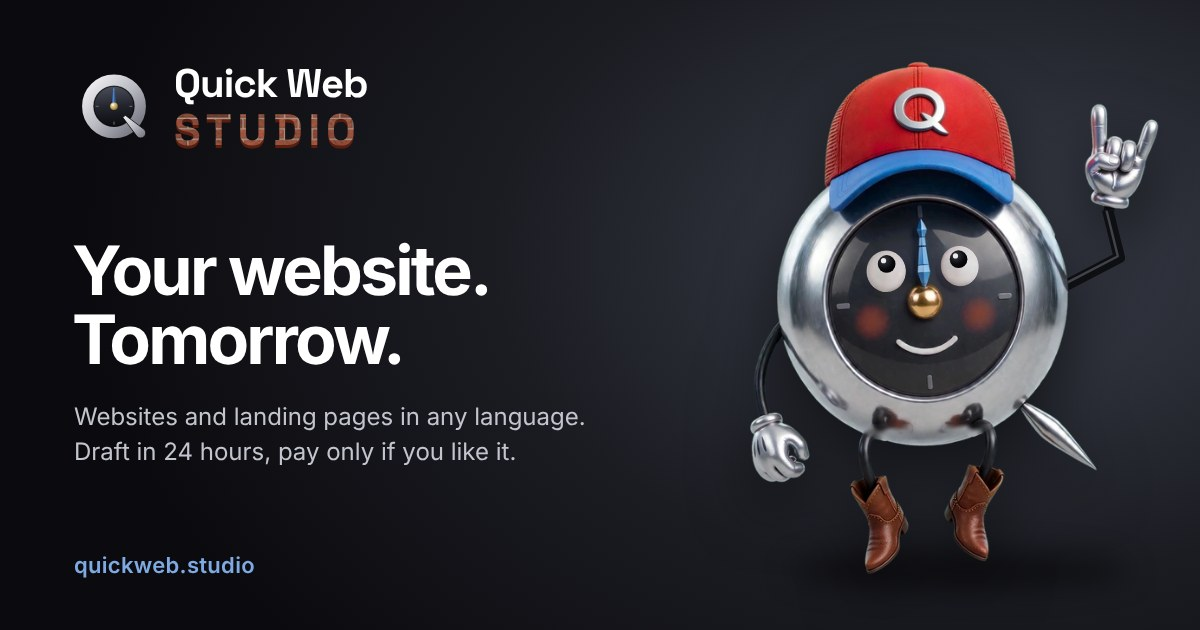
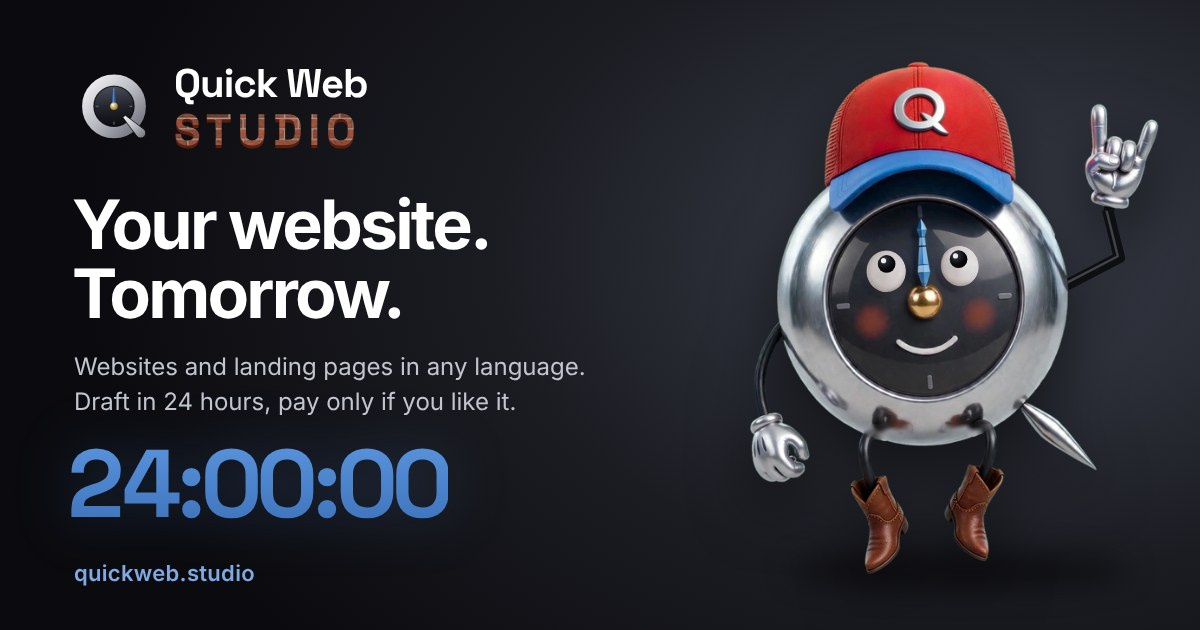
Превью ссылки: таймер 24:00:00 под текстом
Claude-Session: https://claude.ai/code/session_01UB3ZureNLA5tHsdZiT5wBc

Changed region(s): [[0.0617, 0.3016, 0.4933, 0.8444], [0.0617, 0.8746, 0.2158, 0.9349]]

diff --git a/ru/index.html b/ru/index.html
@@ -2,7 +2,7 @@
 <html lang="ru"><head>
 <meta charset="utf-8">
 <script>(function(){var L='ru';try{var q=new URLSearchParams(location.search).get('lang');var s=localStorage.getItem('qwLang');if(L==='es'){if(q==='es'){localStorage.setItem('qwLang','es');return;}if(s==='ru'||s==='en'){location.replace(s+'/');return;}if(!s){var n=(navigator.languages||[navigator.language||'']).map(function(x){return String(x).slice(0,2).toLowerCase()});for(var i=0;i<n.length;i++){if(n[i]==='es')break;if(n[i]==='ru'||n[i]==='en'){localStorage.setItem('qwLang',n[i]);location.replace(n[i]+'/');return;}}localStorage.setItem('qwLang','es');}}else{localStorage.setItem('qwLang',L);}}catch(e){}})();</script>
-<link rel="alternate" hreflang="es" href="https://quickweb.studio/"><link rel="alternate" hreflang="ru" href="https://quickweb.studio/ru/"><link rel="alternate" hreflang="en" href="https://quickweb.studio/en/"><link rel="alternate" hreflang="x-default" href="https://quickweb.studio/"><link rel="canonical" href="https://quickweb.studio/ru/"><meta name="description" content="Сайты и лендинги на любом языке. Черновик за 24 часа, платите только если понравился."><link rel="icon" href="/favicon.ico" sizes="any"><link rel="icon" type="image/svg+xml" href="/favicon.svg"><link rel="icon" type="image/png" sizes="32x32" href="/favicon-32.png"><link rel="apple-touch-icon" href="/apple-touch-icon.png"><meta name="theme-color" content="#0B0B0F"><meta property="og:type" content="website"><meta property="og:site_name" content="Quick Web Studio"><meta property="og:title" content="Quick Web Studio — сайты и лендинги за 24 часа · Буэнос-Айрес"><meta property="og:description" content="Сайты и лендинги на любом языке. Черновик за 24 часа, платите только если понравился."><meta property="og:url" content="https://quickweb.studio/ru/"><meta property="og:locale" content="ru_RU"><meta property="og:locale:alternate" content="es_AR"><meta property="og:locale:alternate" content="en_US"><meta property="og:image" content="https://quickweb.studio/og/ru.jpg?v=1"><meta property="og:image:secure_url" content="https://quickweb.studio/og/ru.jpg?v=1"><meta property="og:image:type" content="image/jpeg"><meta property="og:image:width" content="1200"><meta property="og:image:height" content="630"><meta property="og:image:alt" content="Quick Web Studio — сайты и лендинги за 24 часа · Буэнос-Айрес"><meta name="twitter:card" content="summary_large_image"><meta name="twitter:title" content="Quick Web Studio — сайты и лендинги за 24 часа · Буэнос-Айрес"><meta name="twitter:description" content="Сайты и лендинги на любом языке. Черновик за 24 часа, платите только если понравился."><meta name="twitter:image" content="https://quickweb.studio/og/ru.jpg?v=1">
+<link rel="alternate" hreflang="es" href="https://quickweb.studio/"><link rel="alternate" hreflang="ru" href="https://quickweb.studio/ru/"><link rel="alternate" hreflang="en" href="https://quickweb.studio/en/"><link rel="alternate" hreflang="x-default" href="https://quickweb.studio/"><link rel="canonical" href="https://quickweb.studio/ru/"><meta name="description" content="Сайты и лендинги на любом языке. Черновик за 24 часа, платите только если понравился."><link rel="icon" href="/favicon.ico" sizes="any"><link rel="icon" type="image/svg+xml" href="/favicon.svg"><link rel="icon" type="image/png" sizes="32x32" href="/favicon-32.png"><link rel="apple-touch-icon" href="/apple-touch-icon.png"><meta name="theme-color" content="#0B0B0F"><meta property="og:type" content="website"><meta property="og:site_name" content="Quick Web Studio"><meta property="og:title" content="Quick Web Studio — сайты и лендинги за 24 часа · Буэнос-Айрес"><meta property="og:description" content="Сайты и лендинги на любом языке. Черновик за 24 часа, платите только если понравился."><meta property="og:url" content="https://quickweb.studio/ru/"><meta property="og:locale" content="ru_RU"><meta property="og:locale:alternate" content="es_AR"><meta property="og:locale:alternate" content="en_US"><meta property="og:image" content="https://quickweb.studio/og/ru.jpg?v=2"><meta property="og:image:secure_url" content="https://quickweb.studio/og/ru.jpg?v=2"><meta property="og:image:type" content="image/jpeg"><meta property="og:image:width" content="1200"><meta property="og:image:height" content="630"><meta property="og:image:alt" content="Quick Web Studio — сайты и лендинги за 24 часа · Буэнос-Айрес"><meta name="twitter:card" content="summary_large_image"><meta name="twitter:title" content="Quick Web Studio — сайты и лендинги за 24 часа · Буэнос-Айрес"><meta name="twitter:description" content="Сайты и лендинги на любом языке. Черновик за 24 часа, платите только если понравился."><meta name="twitter:image" content="https://quickweb.studio/og/ru.jpg?v=2">
 <meta name="viewport" content="width=device-width, initial-scale=1">
 <title>Quick Web Studio — сайты и лендинги за 24 часа · Буэнос-Айрес</title>
 <link rel="preload" href="../assets/aa77ae4c49.js" as="script">

diff --git a/en/index.html b/en/index.html
@@ -2,7 +2,7 @@
 <html lang="en"><head>
 <meta charset="utf-8">
 <script>(function(){var L='en';try{var q=new URLSearchParams(location.search).get('lang');var s=localStorage.getItem('qwLang');if(L==='es'){if(q==='es'){localStorage.setItem('qwLang','es');return;}if(s==='ru'||s==='en'){location.replace(s+'/');return;}if(!s){var n=(navigator.languages||[navigator.language||'']).map(function(x){return String(x).slice(0,2).toLowerCase()});for(var i=0;i<n.length;i++){if(n[i]==='es')break;if(n[i]==='ru'||n[i]==='en'){localStorage.setItem('qwLang',n[i]);location.replace(n[i]+'/');return;}}localStorage.setItem('qwLang','es');}}else{localStorage.setItem('qwLang',L);}}catch(e){}})();</script>
-<link rel="alternate" hreflang="es" href="https://quickweb.studio/"><link rel="alternate" hreflang="ru" href="https://quickweb.studio/ru/"><link rel="alternate" hreflang="en" href="https://quickweb.studio/en/"><link rel="alternate" hreflang="x-default" href="https://quickweb.studio/"><link rel="canonical" href="https://quickweb.studio/en/"><meta name="description" content="Websites and landing pages in any language. Draft in 24 hours, pay only if you like it."><link rel="icon" href="/favicon.ico" sizes="any"><link rel="icon" type="image/svg+xml" href="/favicon.svg"><link rel="icon" type="image/png" sizes="32x32" href="/favicon-32.png"><link rel="apple-touch-icon" href="/apple-touch-icon.png"><meta name="theme-color" content="#0B0B0F"><meta property="og:type" content="website"><meta property="og:site_name" content="Quick Web Studio"><meta property="og:title" content="Quick Web Studio — websites and landing pages in 24 hours · Buenos Aires"><meta property="og:description" content="Websites and landing pages in any language. Draft in 24 hours, pay only if you like it."><meta property="og:url" content="https://quickweb.studio/en/"><meta property="og:locale" content="en_US"><meta property="og:locale:alternate" content="es_AR"><meta property="og:locale:alternate" content="ru_RU"><meta property="og:image" content="https://quickweb.studio/og/en.jpg?v=1"><meta property="og:image:secure_url" content="https://quickweb.studio/og/en.jpg?v=1"><meta property="og:image:type" content="image/jpeg"><meta property="og:image:width" content="1200"><meta property="og:image:height" content="630"><meta property="og:image:alt" content="Quick Web Studio — websites and landing pages in 24 hours · Buenos Aires"><meta name="twitter:card" content="summary_large_image"><meta name="twitter:title" content="Quick Web Studio — websites and landing pages in 24 hours · Buenos Aires"><meta name="twitter:description" content="Websites and landing pages in any language. Draft in 24 hours, pay only if you like it."><meta name="twitter:image" content="https://quickweb.studio/og/en.jpg?v=1">
+<link rel="alternate" hreflang="es" href="https://quickweb.studio/"><link rel="alternate" hreflang="ru" href="https://quickweb.studio/ru/"><link rel="alternate" hreflang="en" href="https://quickweb.studio/en/"><link rel="alternate" hreflang="x-default" href="https://quickweb.studio/"><link rel="canonical" href="https://quickweb.studio/en/"><meta name="description" content="Websites and landing pages in any language. Draft in 24 hours, pay only if you like it."><link rel="icon" href="/favicon.ico" sizes="any"><link rel="icon" type="image/svg+xml" href="/favicon.svg"><link rel="icon" type="image/png" sizes="32x32" href="/favicon-32.png"><link rel="apple-touch-icon" href="/apple-touch-icon.png"><meta name="theme-color" content="#0B0B0F"><meta property="og:type" content="website"><meta property="og:site_name" content="Quick Web Studio"><meta property="og:title" content="Quick Web Studio — websites and landing pages in 24 hours · Buenos Aires"><meta property="og:description" content="Websites and landing pages in any language. Draft in 24 hours, pay only if you like it."><meta property="og:url" content="https://quickweb.studio/en/"><meta property="og:locale" content="en_US"><meta property="og:locale:alternate" content="es_AR"><meta property="og:locale:alternate" content="ru_RU"><meta property="og:image" content="https://quickweb.studio/og/en.jpg?v=2"><meta property="og:image:secure_url" content="https://quickweb.studio/og/en.jpg?v=2"><meta property="og:image:type" content="image/jpeg"><meta property="og:image:width" content="1200"><meta property="og:image:height" content="630"><meta property="og:image:alt" content="Quick Web Studio — websites and landing pages in 24 hours · Buenos Aires"><meta name="twitter:card" content="summary_large_image"><meta name="twitter:title" content="Quick Web Studio — websites and landing pages in 24 hours · Buenos Aires"><meta name="twitter:description" content="Websites and landing pages in any language. Draft in 24 hours, pay only if you like it."><meta name="twitter:image" content="https://quickweb.studio/og/en.jpg?v=2">
 <meta name="viewport" content="width=device-width, initial-scale=1">
 <title>Quick Web Studio — websites and landing pages in 24 hours · Buenos Aires</title>
 <link rel="preload" href="../assets/aa77ae4c49.js" as="script">

diff --git a/index.html b/index.html
@@ -2,7 +2,7 @@
 <html lang="es"><head>
 <meta charset="utf-8">
 <script>(function(){var L='es';try{var q=new URLSearchParams(location.search).get('lang');var s=localStorage.getItem('qwLang');if(L==='es'){if(q==='es'){localStorage.setItem('qwLang','es');return;}if(s==='ru'||s==='en'){location.replace(s+'/');return;}if(!s){var n=(navigator.languages||[navigator.language||'']).map(function(x){return String(x).slice(0,2).toLowerCase()});for(var i=0;i<n.length;i++){if(n[i]==='es')break;if(n[i]==='ru'||n[i]==='en'){localStorage.setItem('qwLang',n[i]);location.replace(n[i]+'/');return;}}localStorage.setItem('qwLang','es');}}else{localStorage.setItem('qwLang',L);}}catch(e){}})();</script>
-<link rel="alternate" hreflang="es" href="https://quickweb.studio/"><link rel="alternate" hreflang="ru" href="https://quickweb.studio/ru/"><link rel="alternate" hreflang="en" href="https://quickweb.studio/en/"><link rel="alternate" hreflang="x-default" href="https://quickweb.studio/"><link rel="canonical" href="https://quickweb.studio/"><meta name="description" content="Sitios y landings en cualquier idioma. Borrador en 24 horas, pagás solo si te gusta."><link rel="icon" href="/favicon.ico" sizes="any"><link rel="icon" type="image/svg+xml" href="/favicon.svg"><link rel="icon" type="image/png" sizes="32x32" href="/favicon-32.png"><link rel="apple-touch-icon" href="/apple-touch-icon.png"><meta name="theme-color" content="#0B0B0F"><meta property="og:type" content="website"><meta property="og:site_name" content="Quick Web Studio"><meta property="og:title" content="Quick Web Studio — sitios y landings en 24 horas · Buenos Aires"><meta property="og:description" content="Sitios y landings en cualquier idioma. Borrador en 24 horas, pagás solo si te gusta."><meta property="og:url" content="https://quickweb.studio/"><meta property="og:locale" content="es_AR"><meta property="og:locale:alternate" content="ru_RU"><meta property="og:locale:alternate" content="en_US"><meta property="og:image" content="https://quickweb.studio/og/es.jpg?v=1"><meta property="og:image:secure_url" content="https://quickweb.studio/og/es.jpg?v=1"><meta property="og:image:type" content="image/jpeg"><meta property="og:image:width" content="1200"><meta property="og:image:height" content="630"><meta property="og:image:alt" content="Quick Web Studio — sitios y landings en 24 horas · Buenos Aires"><meta name="twitter:card" content="summary_large_image"><meta name="twitter:title" content="Quick Web Studio — sitios y landings en 24 horas · Buenos Aires"><meta name="twitter:description" content="Sitios y landings en cualquier idioma. Borrador en 24 horas, pagás solo si te gusta."><meta name="twitter:image" content="https://quickweb.studio/og/es.jpg?v=1">
+<link rel="alternate" hreflang="es" href="https://quickweb.studio/"><link rel="alternate" hreflang="ru" href="https://quickweb.studio/ru/"><link rel="alternate" hreflang="en" href="https://quickweb.studio/en/"><link rel="alternate" hreflang="x-default" href="https://quickweb.studio/"><link rel="canonical" href="https://quickweb.studio/"><meta name="description" content="Sitios y landings en cualquier idioma. Borrador en 24 horas, pagás solo si te gusta."><link rel="icon" href="/favicon.ico" sizes="any"><link rel="icon" type="image/svg+xml" href="/favicon.svg"><link rel="icon" type="image/png" sizes="32x32" href="/favicon-32.png"><link rel="apple-touch-icon" href="/apple-touch-icon.png"><meta name="theme-color" content="#0B0B0F"><meta property="og:type" content="website"><meta property="og:site_name" content="Quick Web Studio"><meta property="og:title" content="Quick Web Studio — sitios y landings en 24 horas · Buenos Aires"><meta property="og:description" content="Sitios y landings en cualquier idioma. Borrador en 24 horas, pagás solo si te gusta."><meta property="og:url" content="https://quickweb.studio/"><meta property="og:locale" content="es_AR"><meta property="og:locale:alternate" content="ru_RU"><meta property="og:locale:alternate" content="en_US"><meta property="og:image" content="https://quickweb.studio/og/es.jpg?v=2"><meta property="og:image:secure_url" content="https://quickweb.studio/og/es.jpg?v=2"><meta property="og:image:type" content="image/jpeg"><meta property="og:image:width" content="1200"><meta property="og:image:height" content="630"><meta property="og:image:alt" content="Quick Web Studio — sitios y landings en 24 horas · Buenos Aires"><meta name="twitter:card" content="summary_large_image"><meta name="twitter:title" content="Quick Web Studio — sitios y landings en 24 horas · Buenos Aires"><meta name="twitter:description" content="Sitios y landings en cualquier idioma. Borrador en 24 horas, pagás solo si te gusta."><meta name="twitter:image" content="https://quickweb.studio/og/es.jpg?v=2">
 <meta name="viewport" content="width=device-width, initial-scale=1">
 <title>Quick Web Studio — sitios y landings en 24 horas · Buenos Aires</title>
 <link rel="preload" href="assets/aa77ae4c49.js" as="script">

diff --git a/tools/build_i18n.py b/tools/build_i18n.py
@@ -6,7 +6,7 @@ src=open(''+__import__('os').path.dirname(__file__)+'/master_ru.html').read()
 URL={'es':BASE,'ru':BASE+'ru/','en':BASE+'en/'}
 LOC={'es':'es_AR','ru':'ru_RU','en':'en_US'}
 def og(lang):
-    img=BASE+'og/'+lang+'.jpg?v=1'
+    img=BASE+'og/'+lang+'.jpg?v=2'
     alt=[l for l in ('es','ru','en') if l!=lang]
     return (f'<meta property="og:type" content="website"><meta property="og:site_name" content="Quick Web Studio">'
             f'<meta property="og:title" content="{TITLE[lang]}"><meta property="og:description" content="{DESC[lang]}">'
